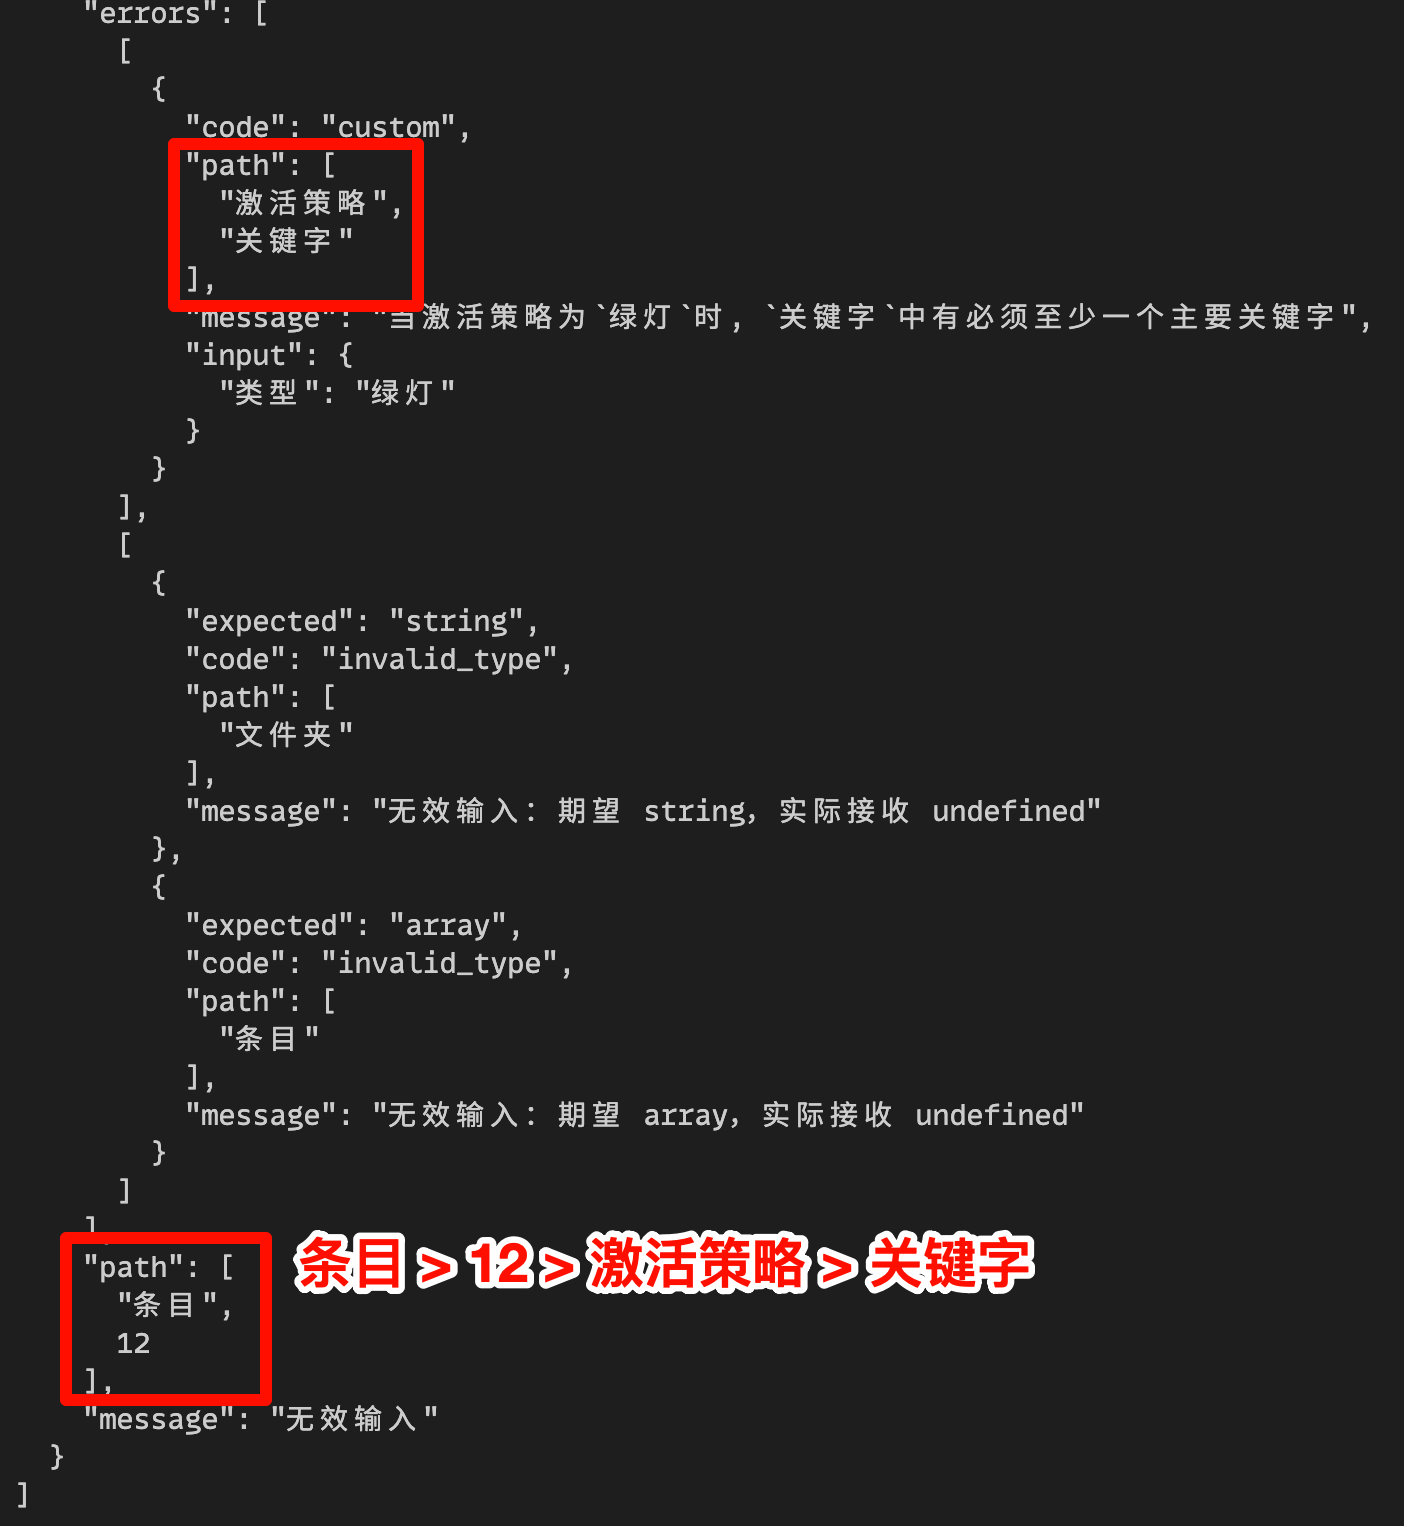
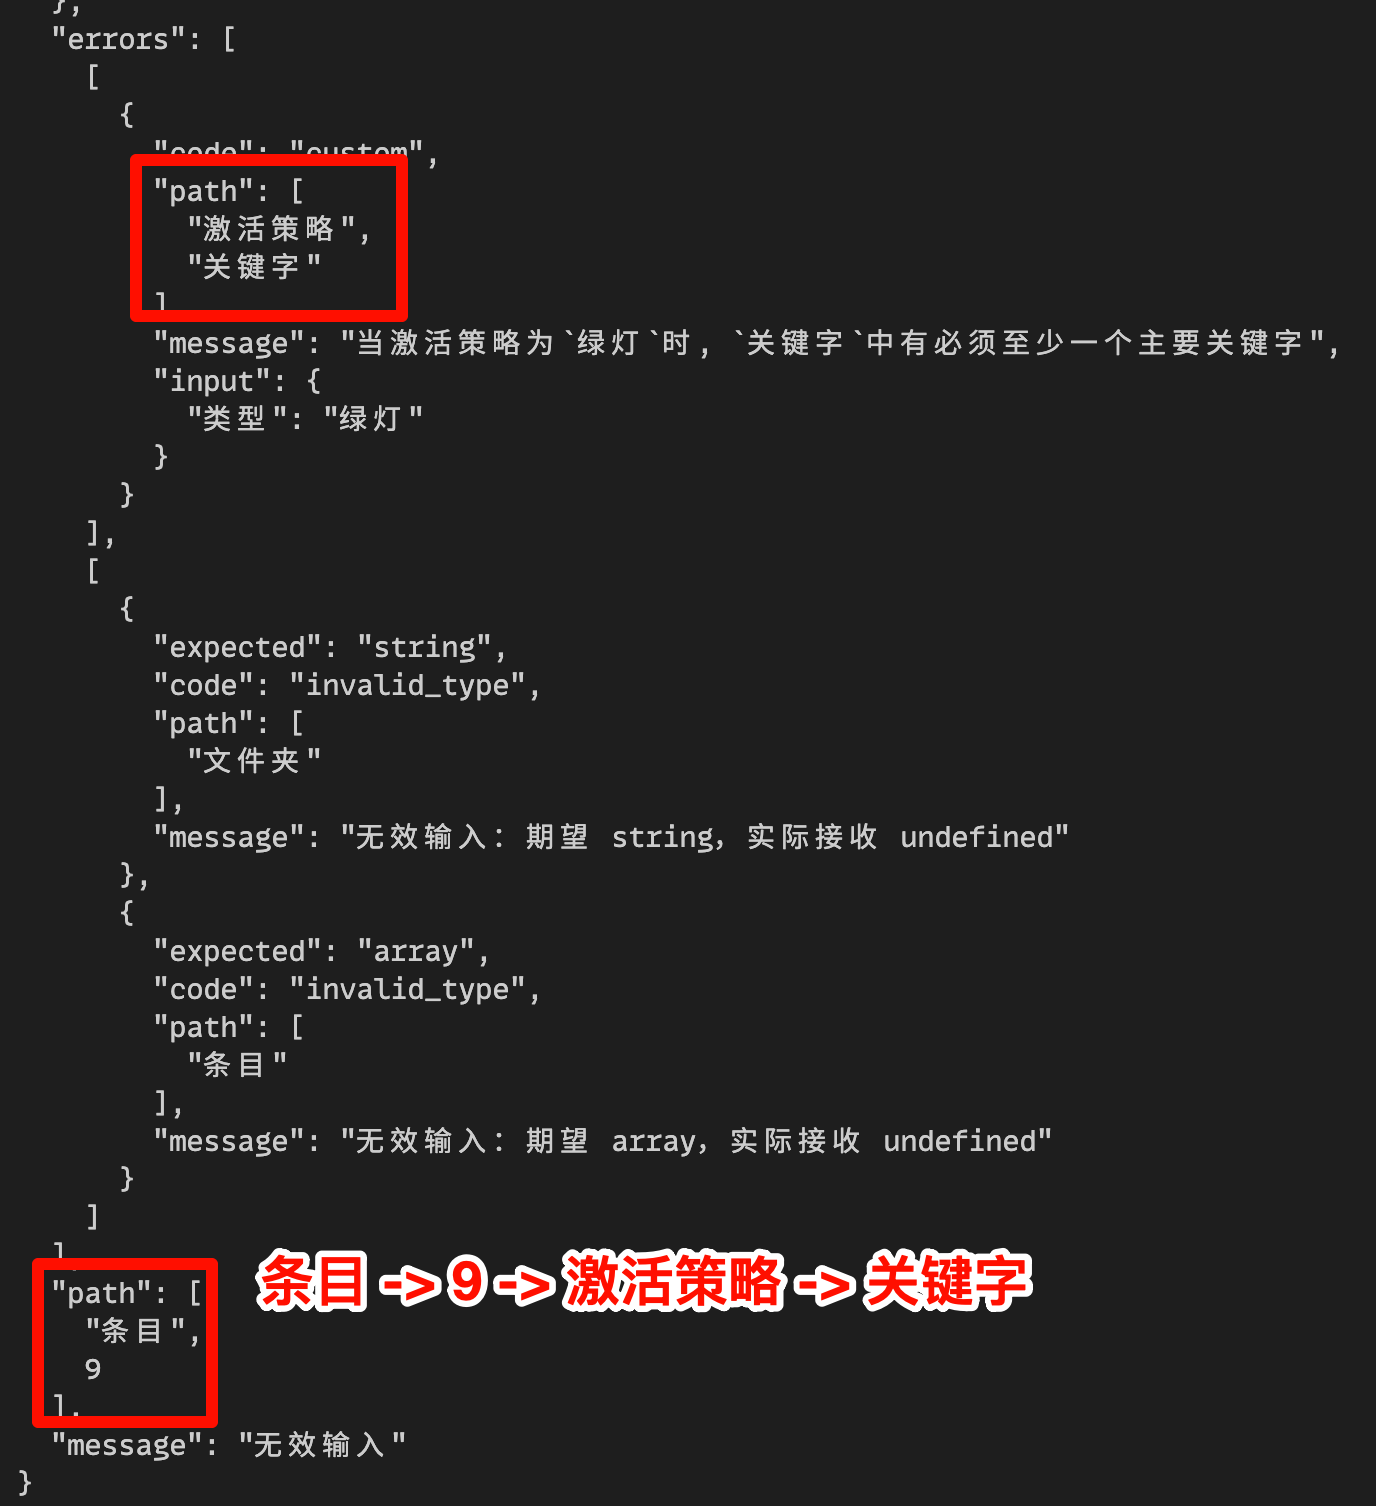
[青空莉/工具经验/实时编写角色卡、世界书或预设] 调整示例

diff --git a/青空莉/工具经验/实时编写角色卡、世界书或预设/用法提示/index.md b/青空莉/工具经验/实时编写角色卡、世界书或预设/用法提示/index.md
@@ -16,7 +16,7 @@
 :::{figure} parse报错.png
 :::
 
-报错中的 `path`, 其实就告诉了我们错误出在{menuselection}`条目 --> 12 --> 激活策略 --> 关键字`. 我们可以通过 Cursor 上方的导航条对此进行跳转:
+报错中的 `path`, 其实就告诉了我们错误出在{menuselection}`条目 --> 9 --> 激活策略 --> 关键字`. 我们可以通过 Cursor 上方的导航条对此进行跳转:
 
 :::{figure} 跳转错误.png
 :::
